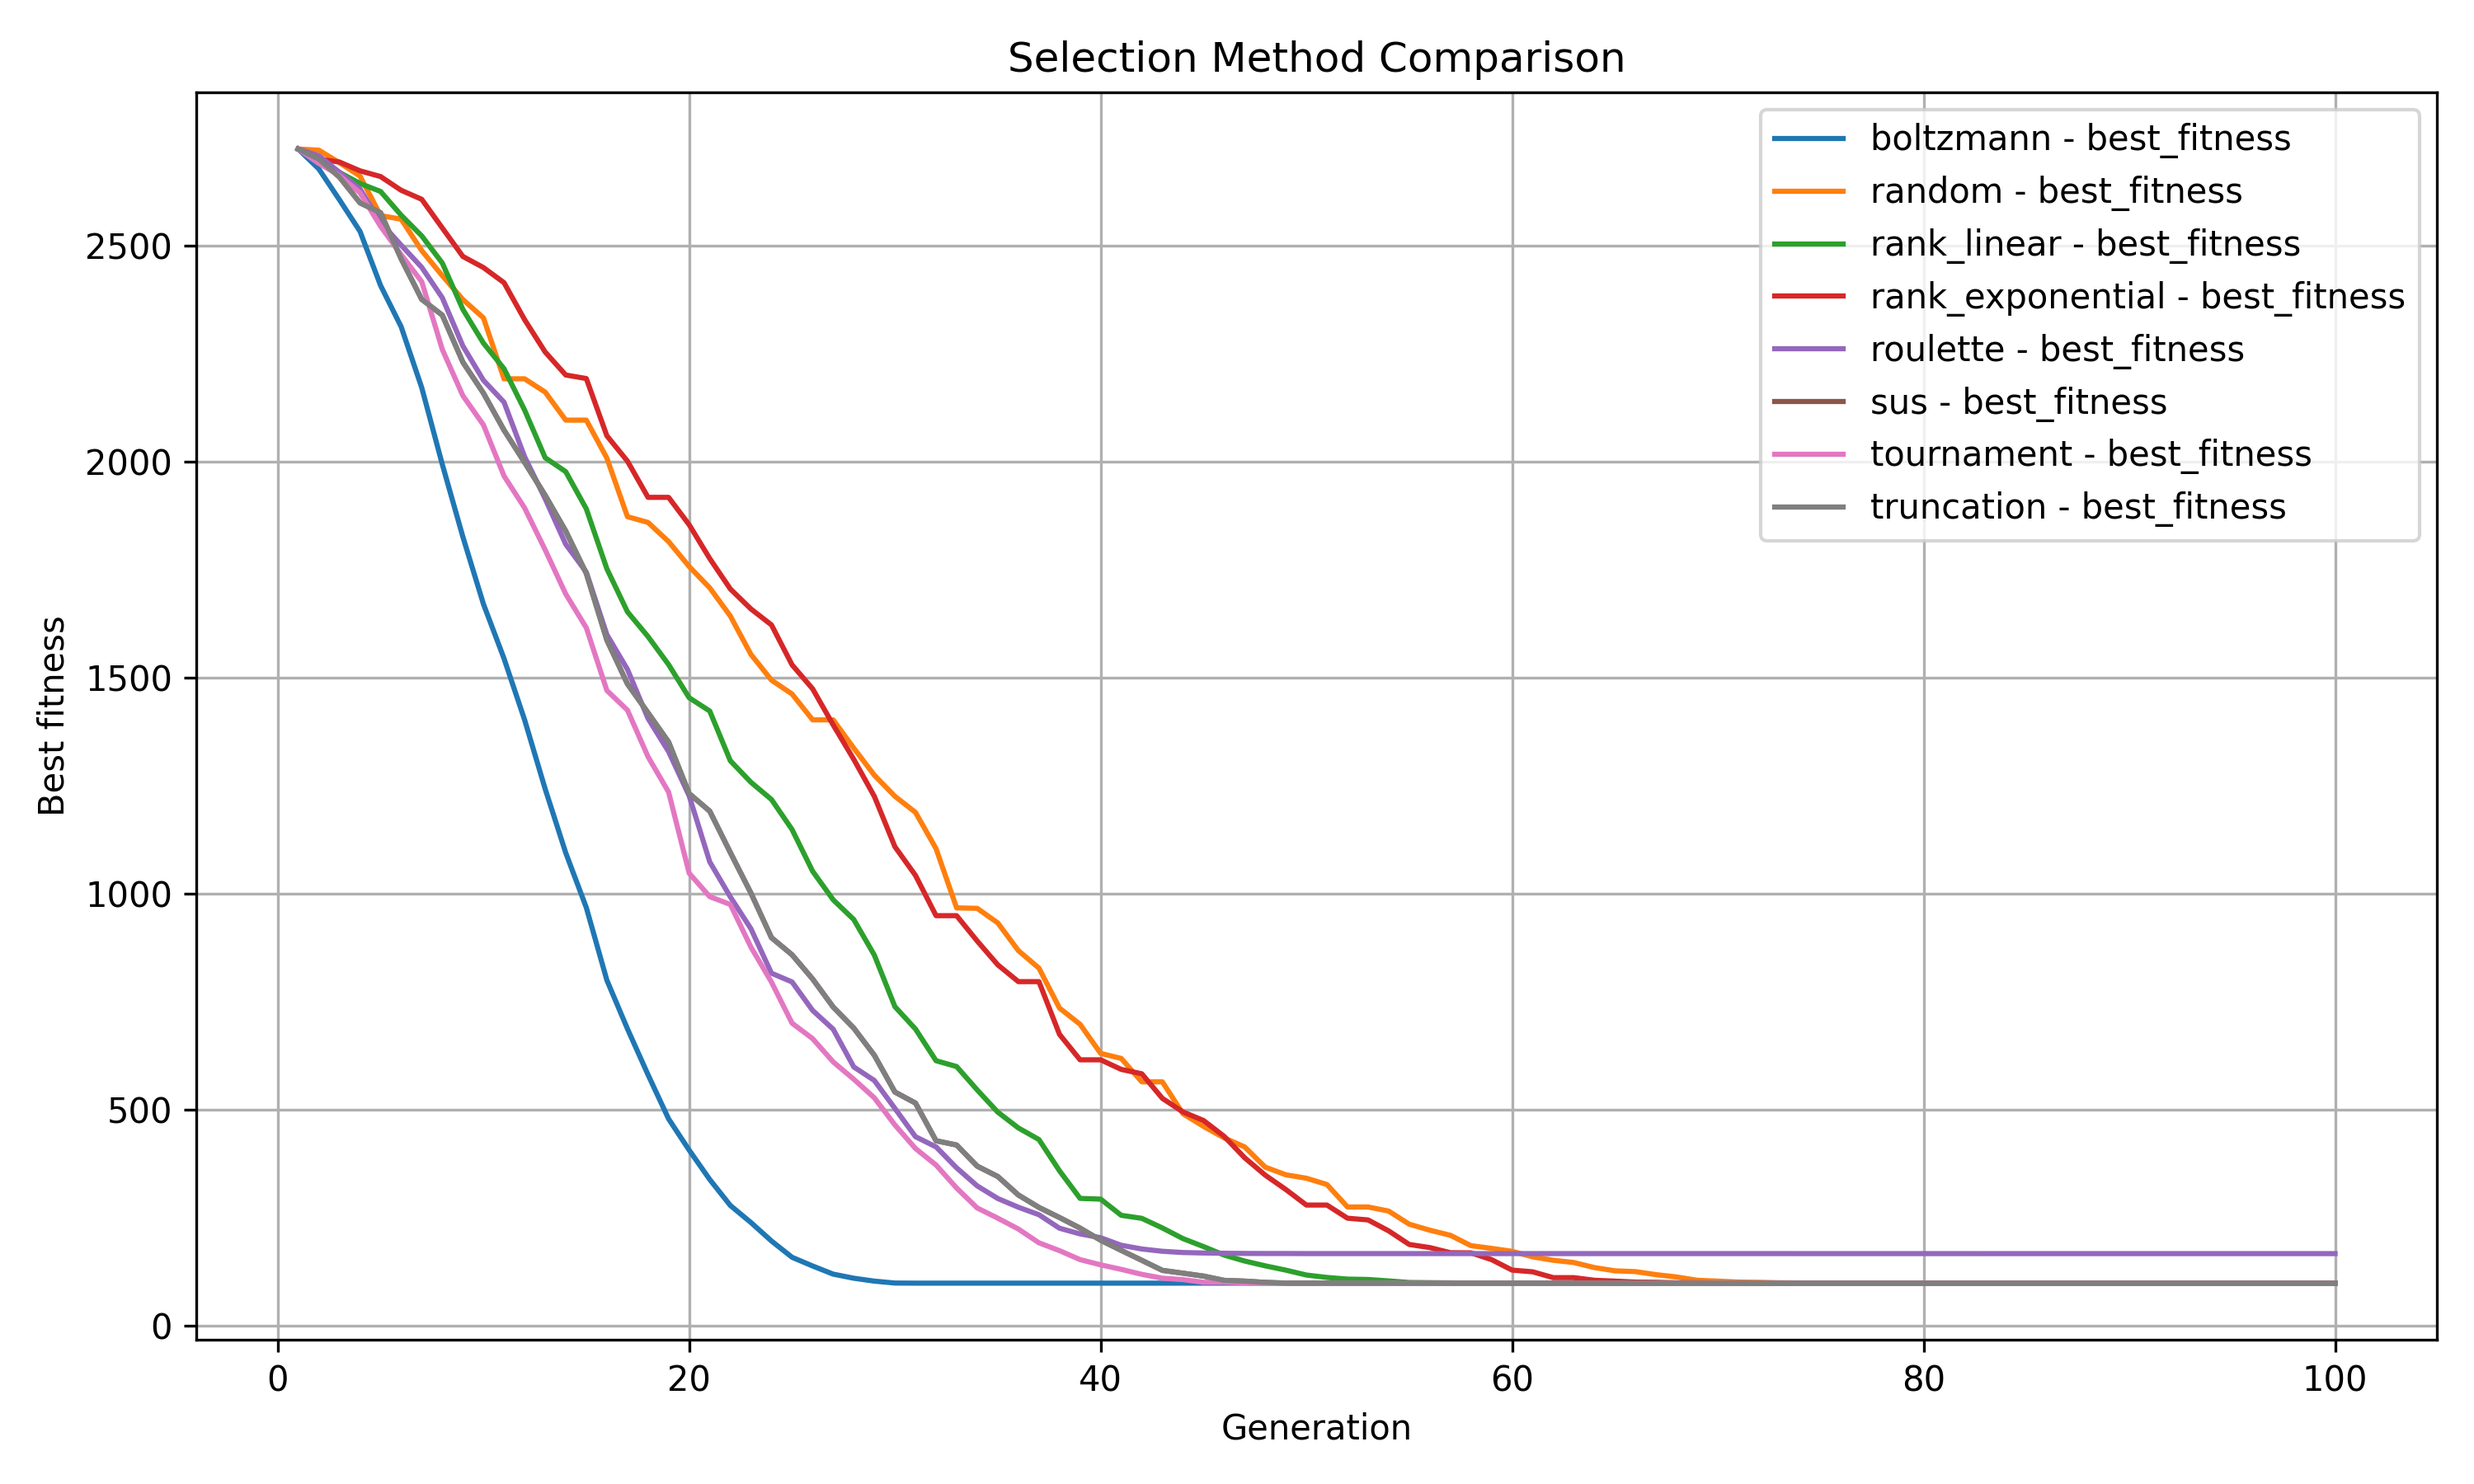
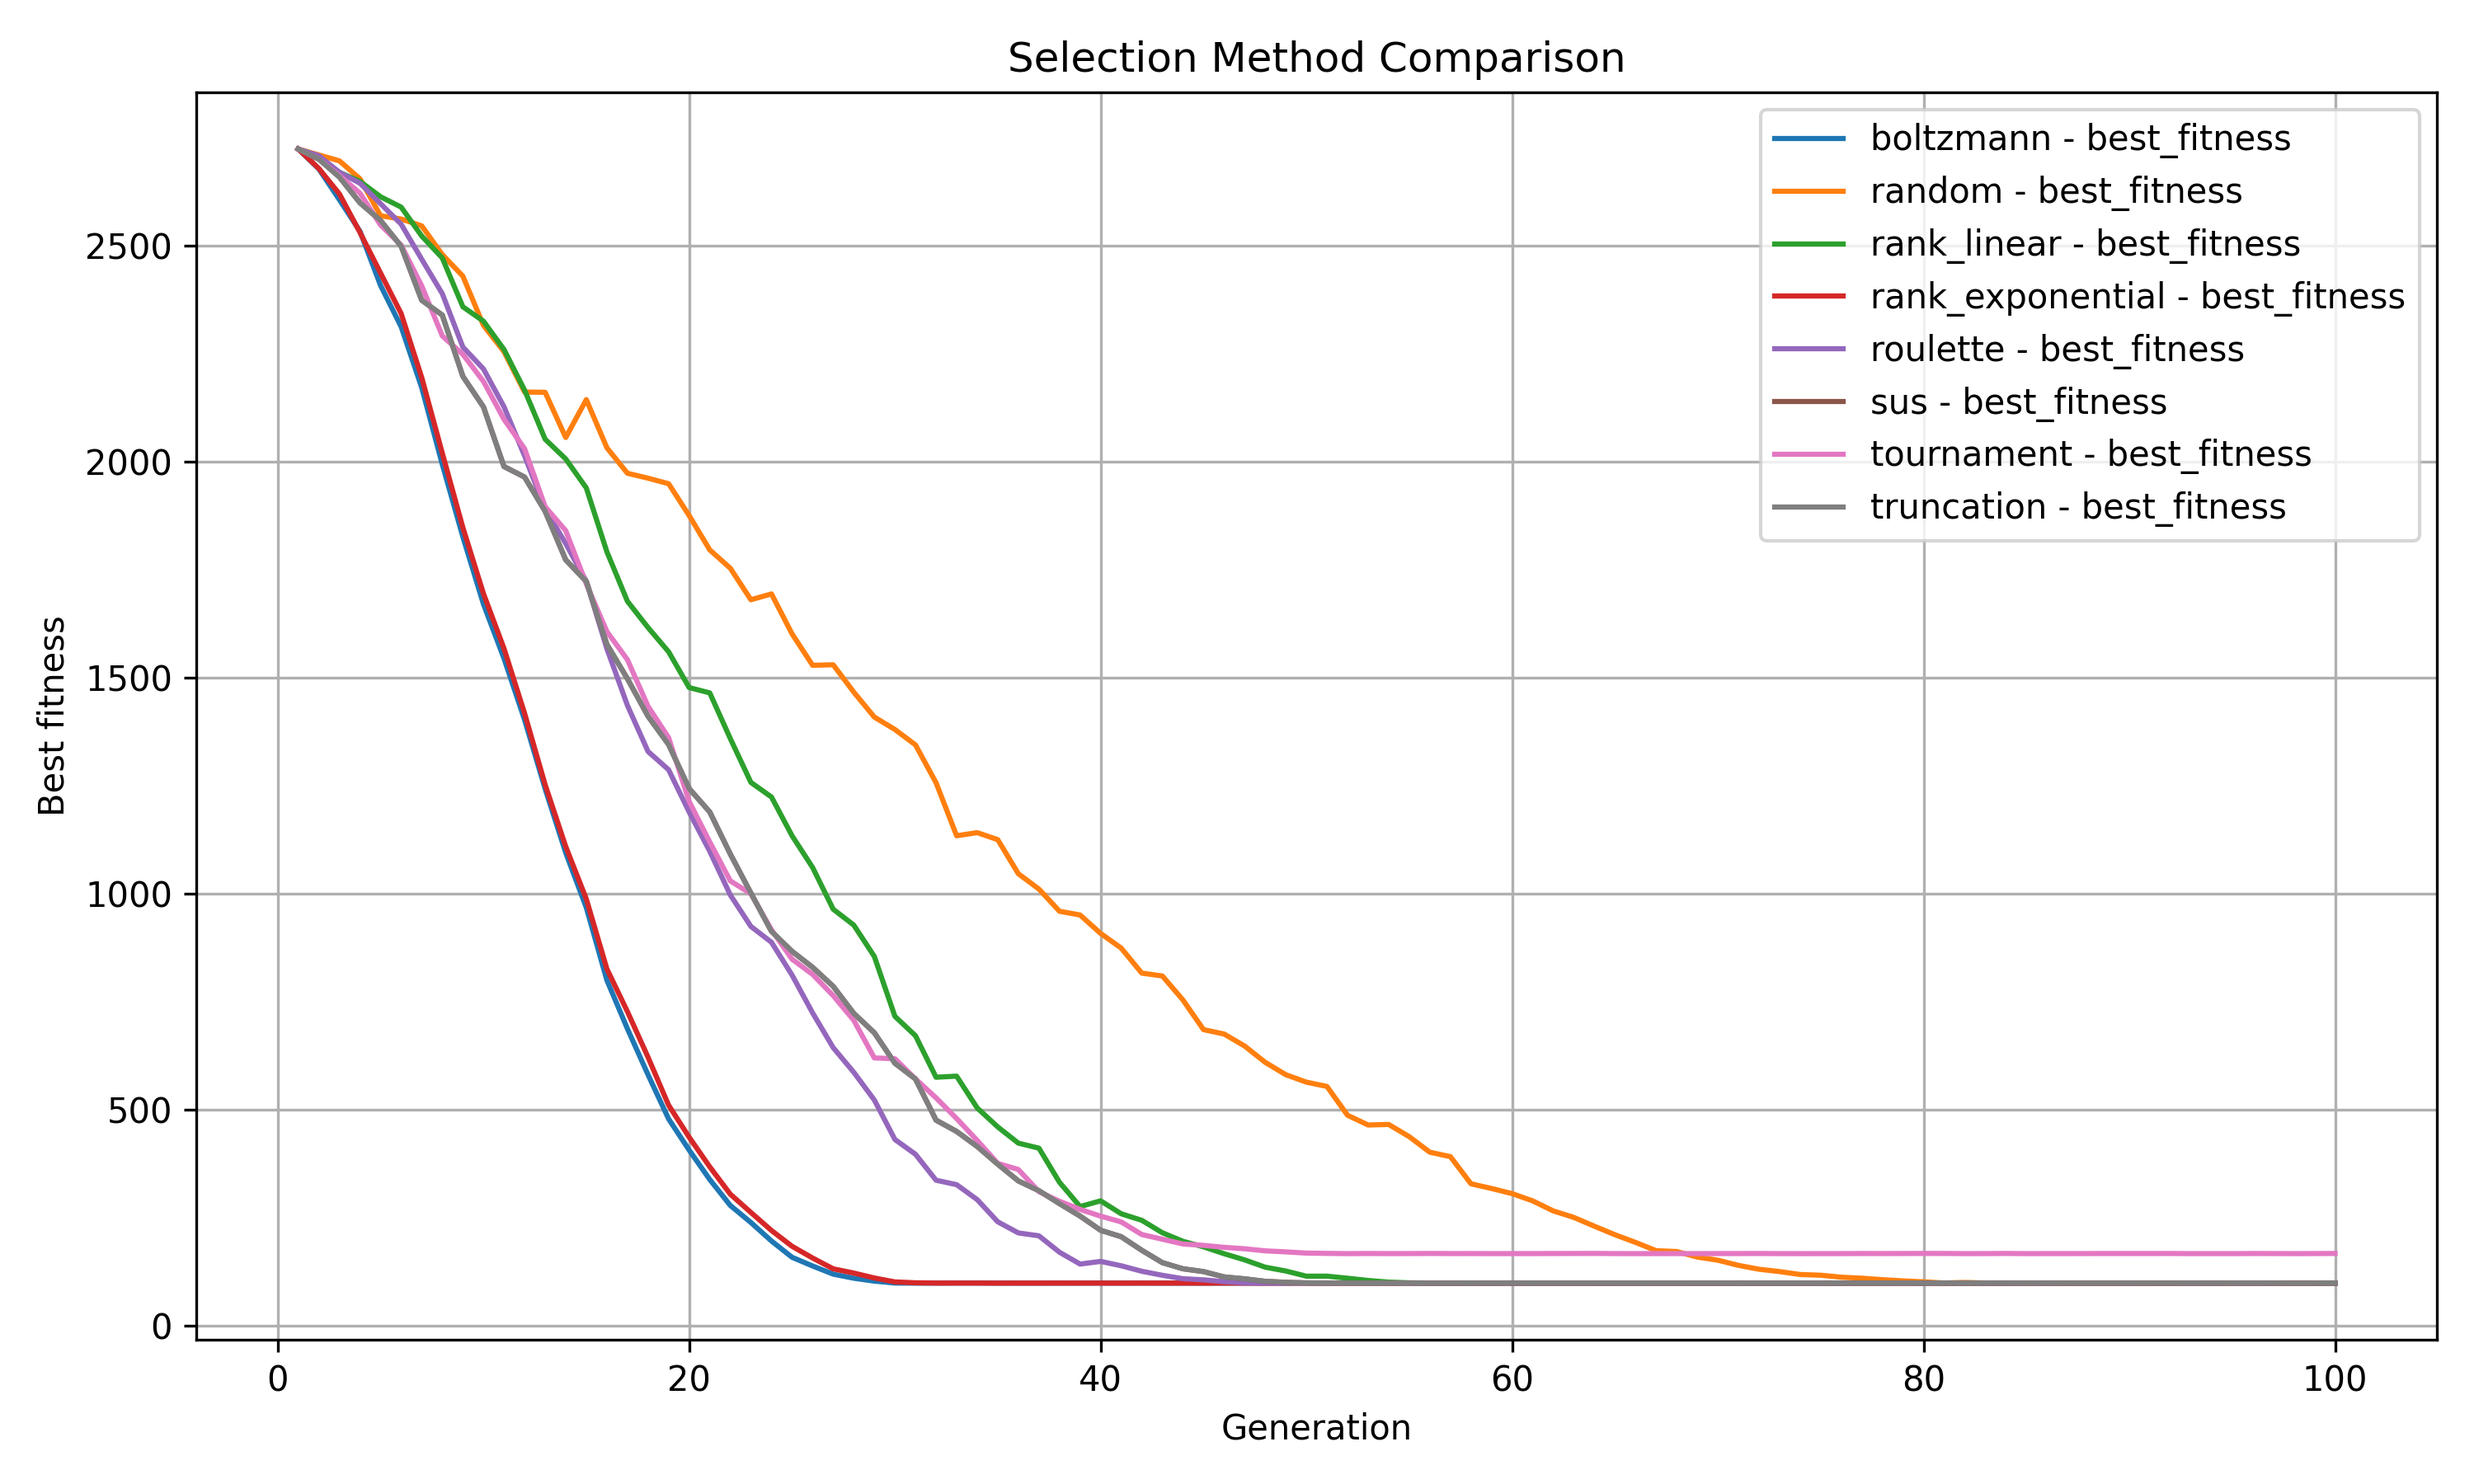
Fix inverted rank_exponential selection
Closes #4

diff --git a/evolib/operators/selection.py b/evolib/operators/selection.py
@@ -48,14 +48,19 @@ def _calculate_rank_probabilities(
         raise ValueError("Population size must be at least 1.")
 
     if mode == "linear":
-        # Linear probability: p(i) = 2*(N - i) / (N*(N+1))
-        probabilities = (2 * (population_size - ranks)) / (
-            population_size * (population_size + 1)
-        )
+        # Monotonic decreasing with rank: best gets highest probability
+        weights = population_size - ranks
+        probabilities = weights / np.sum(weights)
+
     elif mode == "exponential":
-        # Exponential probability: p(i) = base^i / sum(base^j)
-        probabilities = np.power(exp_base, ranks)
-        probabilities = probabilities / np.sum(probabilities)
+        if exp_base <= 0:
+            raise ValueError("exp_base must be greater than 0")
+
+        # With exp_base > 1.0: best gets highest probability
+        # rank 0 -> exp_base^0 = 1, rank 1 -> exp_base^-1, ...
+        weights = np.power(exp_base, -ranks)
+        probabilities = weights / np.sum(weights)
+
     else:
         raise ValueError("Selection mode must be either 'linear' or 'exponential'.")
 
